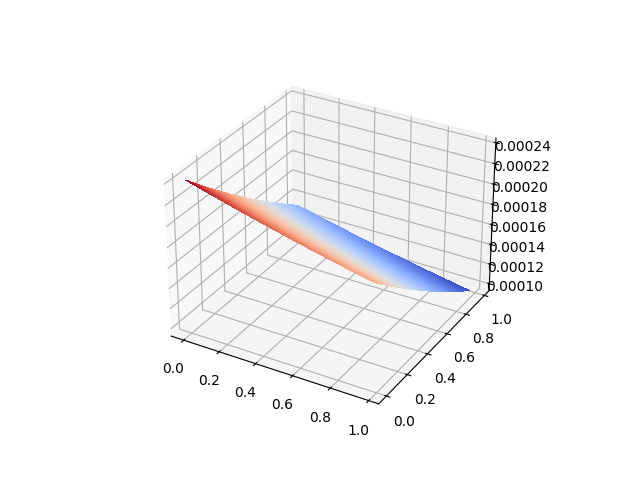
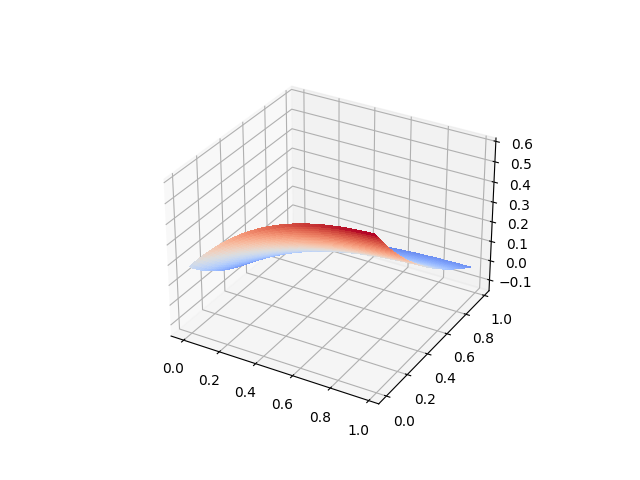
run_all_err

Changed region(s): [[0.25, 0.1875, 0.875, 0.6562], [0.25, 0.6562, 0.2812, 0.6875]]

diff --git a/run_all_err.py b/run_all_err.py
@@ -102,18 +102,35 @@ for mu in training_set_list:
     solution_FEM = gedim.LUSolver(mu_1*stiffness+advection, mu_2*weakTerm_down, lib)
 
     ##calcolo errore L^inf
-    error = solution_FEM - solution_PINN
-    l_inf_PINN = LA.norm(error, np.inf)
-    l_2_PINN = np.sqrt(np.abs(error.T @ mass @ error))
-    semi_h_1_PINN = np.sqrt(np.abs(error.T @ stiffness @ error))
+    error_PINN = solution_FEM - solution_PINN
+    l_inf_PINN = LA.norm(error_PINN, np.inf)
+    l_2_PINN = np.sqrt(np.abs(error_PINN.T @ mass @ error_PINN))
+    semi_h_1_PINN = np.sqrt(np.abs(error_PINN.T @ stiffness @ error_PINN))
     err_2_PINN.append(l_2_PINN)
     err_inf_PINN.append(l_inf_PINN)
     err_H1_PINN.append(semi_h_1_PINN)
     error_Greedy = solution_FEM - solution_Greedy
-    l_inf_Greedy = LA.norm(error, np.inf)
-    l_2_Greedy = np.sqrt(np.abs(error.T @ mass @ error))
-    semi_h_1_Greedy = np.sqrt(np.abs(error.T @ stiffness @ error))
+    l_inf_Greedy = LA.norm(error_Greedy, np.inf)
+    l_2_Greedy = np.sqrt(np.abs(error_Greedy.T @ mass @ error_Greedy))
+    semi_h_1_Greedy = np.sqrt(np.abs(error_Greedy.T @ stiffness @ error_Greedy))
     err_2_Greedy.append(l_2_Greedy)
     err_inf_Greedy.append(l_inf_Greedy)
     err_H1_Greedy.append(semi_h_1_Greedy)
 
+print("mean of the L2 error PINN = {}".format(np.mean(np.array(err_2_PINN))))
+print("std of the L2 error PINN = {}".format(np.std(np.array(err_2_PINN))))
+
+print("mean of the Linf error PINN = {}".format(np.mean(np.array(err_inf_PINN))))
+print("std of the Linf error PINN = {}".format(np.std(np.array(err_inf_PINN))))
+
+print("mean of the H1 error PINN = {}".format(np.mean(np.array(err_H1_PINN))))
+print("std of the H1 error PINN = {}".format(np.std(np.array(err_H1_PINN))))
+
+print("mean of the L2 error Greedy = {}".format(np.mean(np.array(err_2_Greedy))))
+print("std of the L2 error Greedy = {}".format(np.std(np.array(err_2_Greedy))))
+
+print("mean of the Linf error Greedy = {}".format(np.mean(np.array(err_inf_Greedy))))
+print("std of the Linf error Greedy = {}".format(np.std(np.array(err_inf_Greedy))))
+
+print("mean of the H1 error Greedy = {}".format(np.mean(np.array(err_H1_Greedy))))
+print("std of the H1 error Greedy = {}".format(np.std(np.array(err_H1_Greedy))))

diff --git a/runall_funct.py b/runall_funct.py
@@ -51,7 +51,7 @@ tol  = 1.e-8
 
 ## PARAM SOL
 mu_1 = 1.
-mu_2 = 1.
+mu_2 = -1.
 
 ###Creazione mesh e spazio discreto
 os.chdir("CppToPython")
